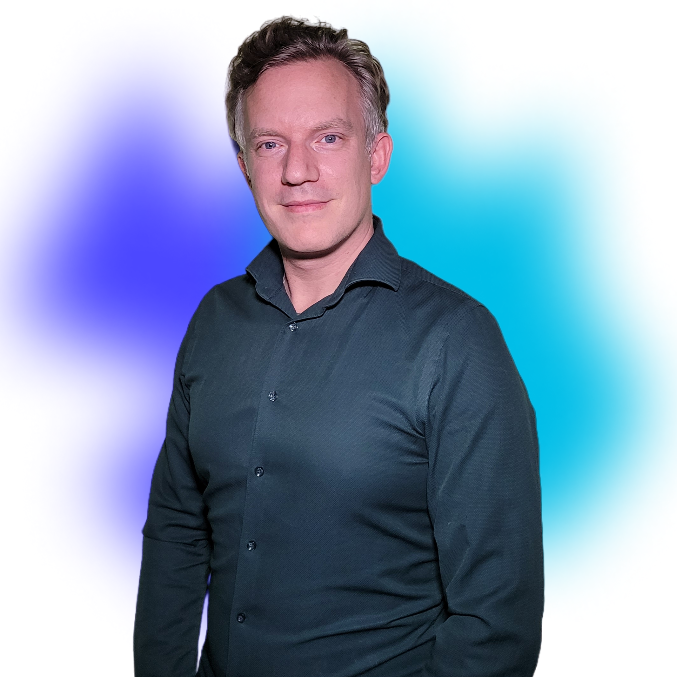
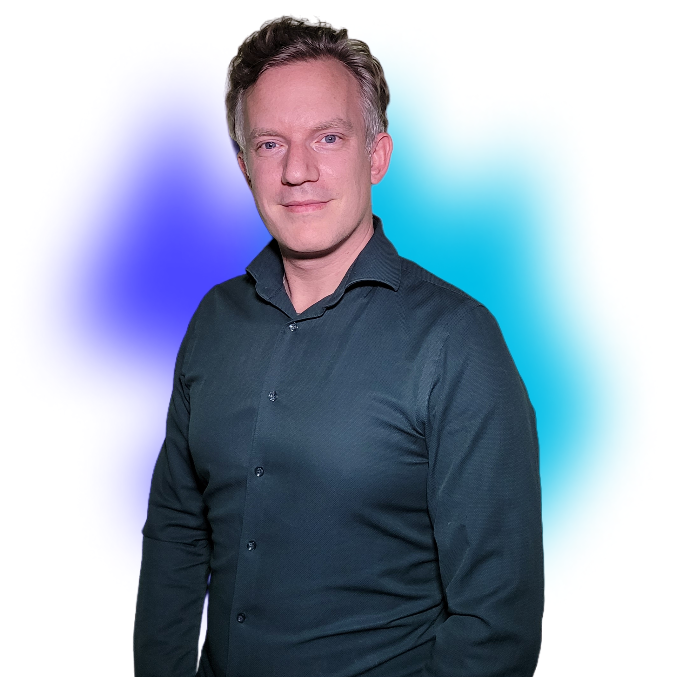
update hero styling

diff --git a/src/app/section02-about/section02-about.component.scss b/src/app/section02-about/section02-about.component.scss
@@ -33,4 +33,9 @@
 
   border: 2px solid $color01;
   border-radius: 50%;
+
+  background-color: rgba($color01, 0.2);
+
+  box-shadow: 0 0 16px $color01;
+  // filter: drop-shadow(0 0 16px $color01);
 }

diff --git a/src/app/section01-hero/section01-hero.component.scss b/src/app/section01-hero/section01-hero.component.scss
@@ -15,4 +15,6 @@
 
 .img-profile {
   max-width: 600px;
+  border: 50xp solid $bg01;
+  border-bottom-right-radius: 50%;
 }
